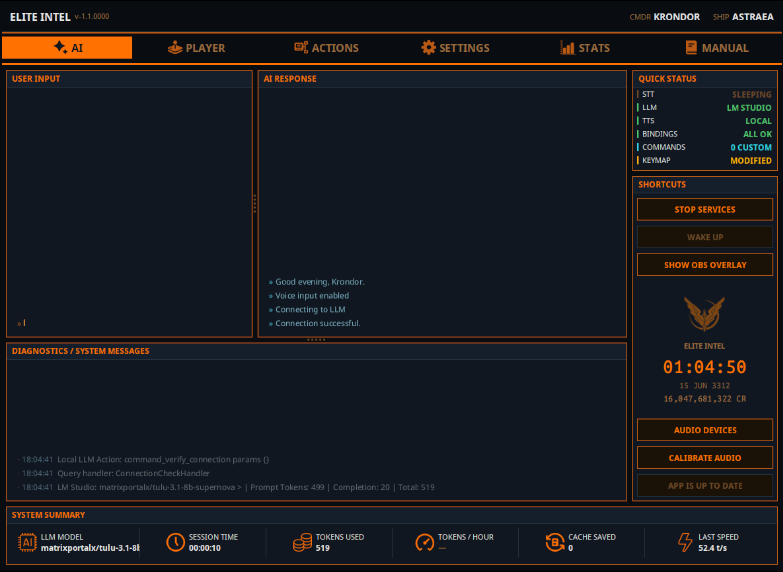
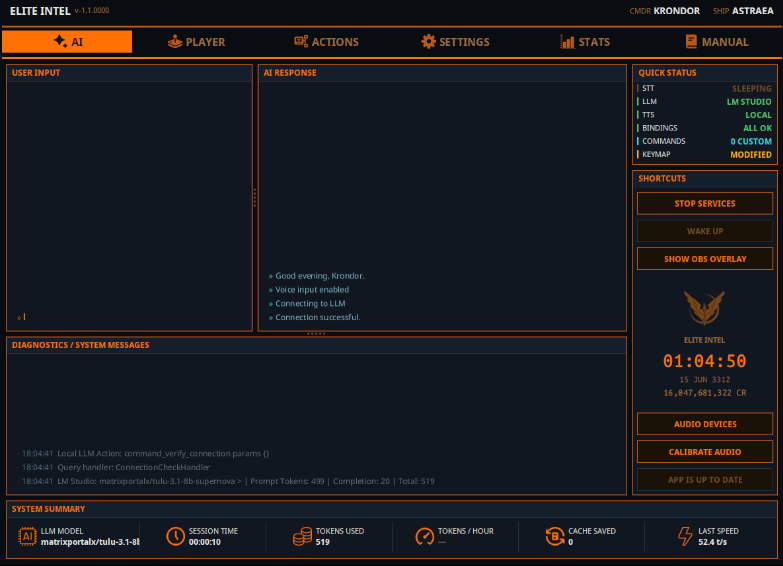
converting existing wiki

diff --git a/wiki/Home.md b/wiki/Home.md
@@ -1,8 +1,8 @@
 # Elite Intel: AI Assistant for Elite Dangerous
 
-This page provides an overview of Elite Intel: its capabilities, limitations, and core components.
-
 ![EliteIntel app](images/app.png)
+
+This page provides an overview of Elite Intel: its capabilities, limitations, and core components.
 
 ## Overview
 